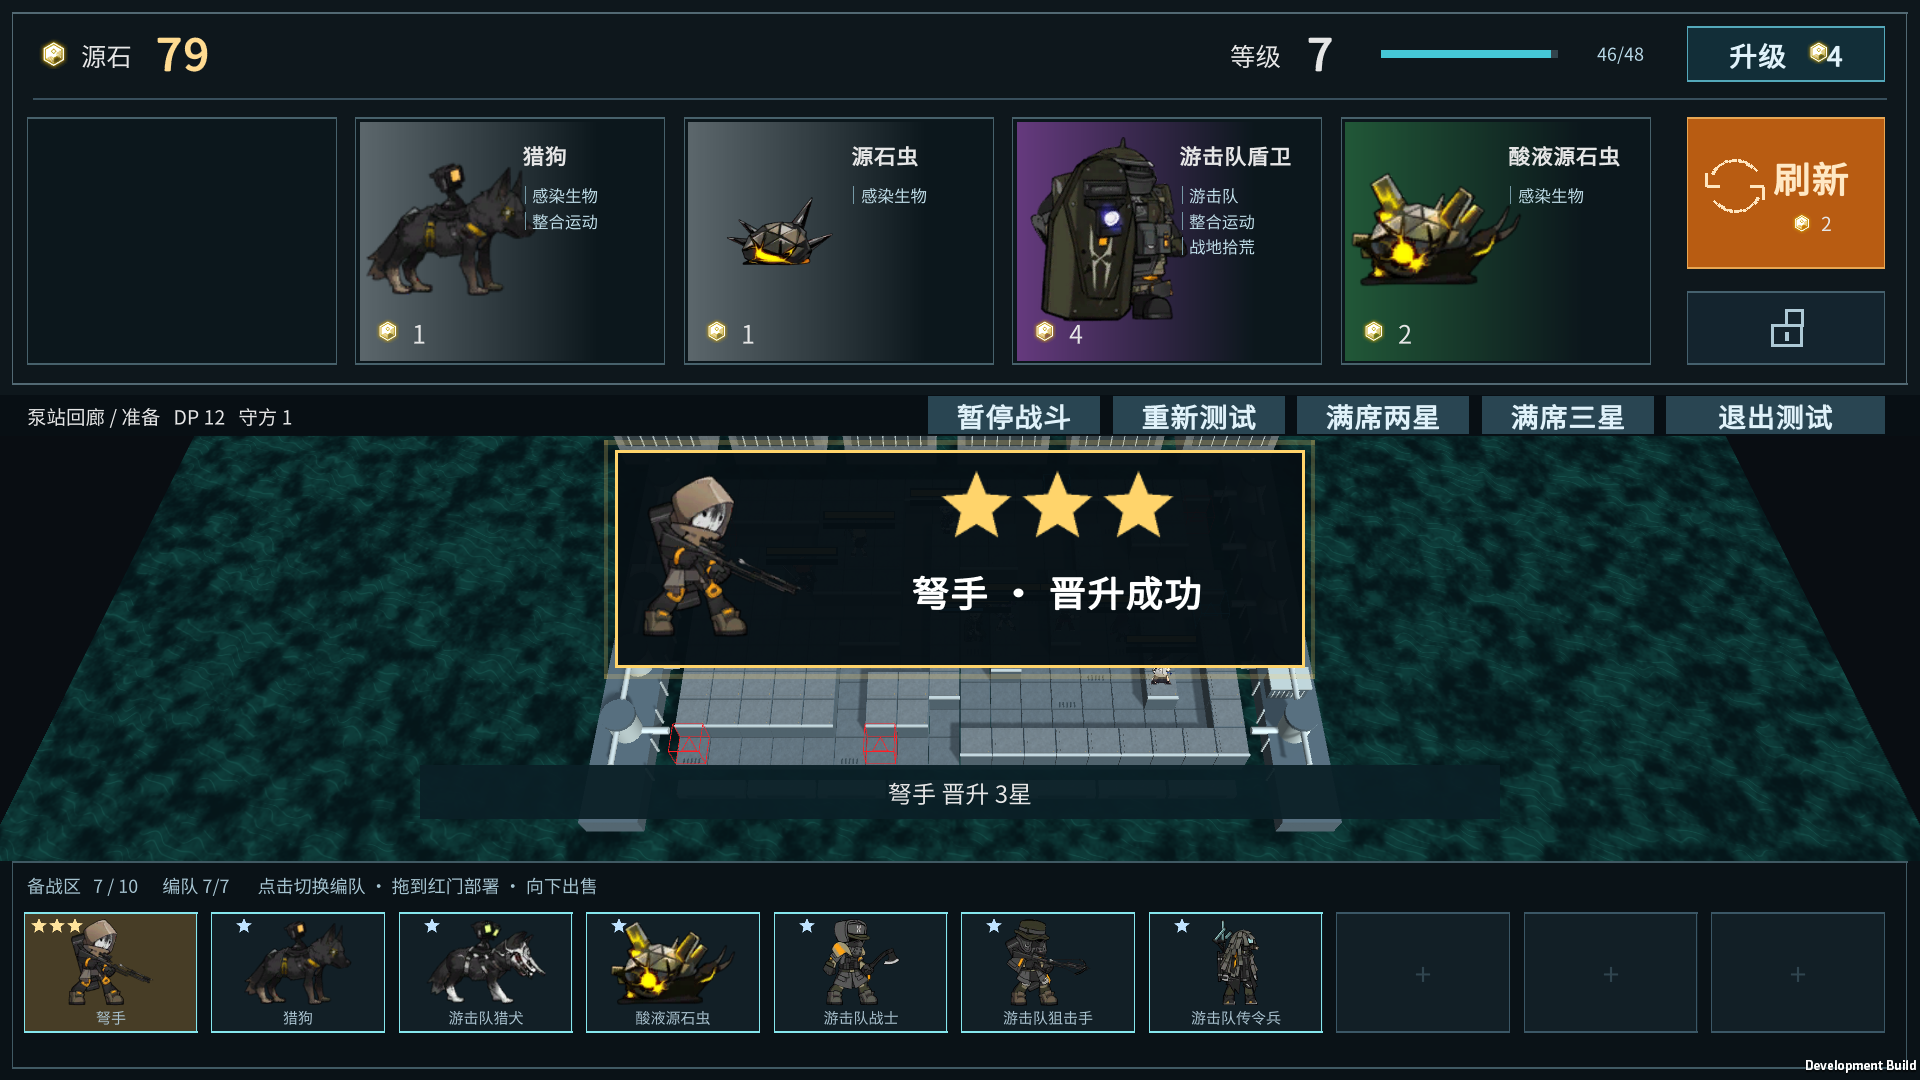
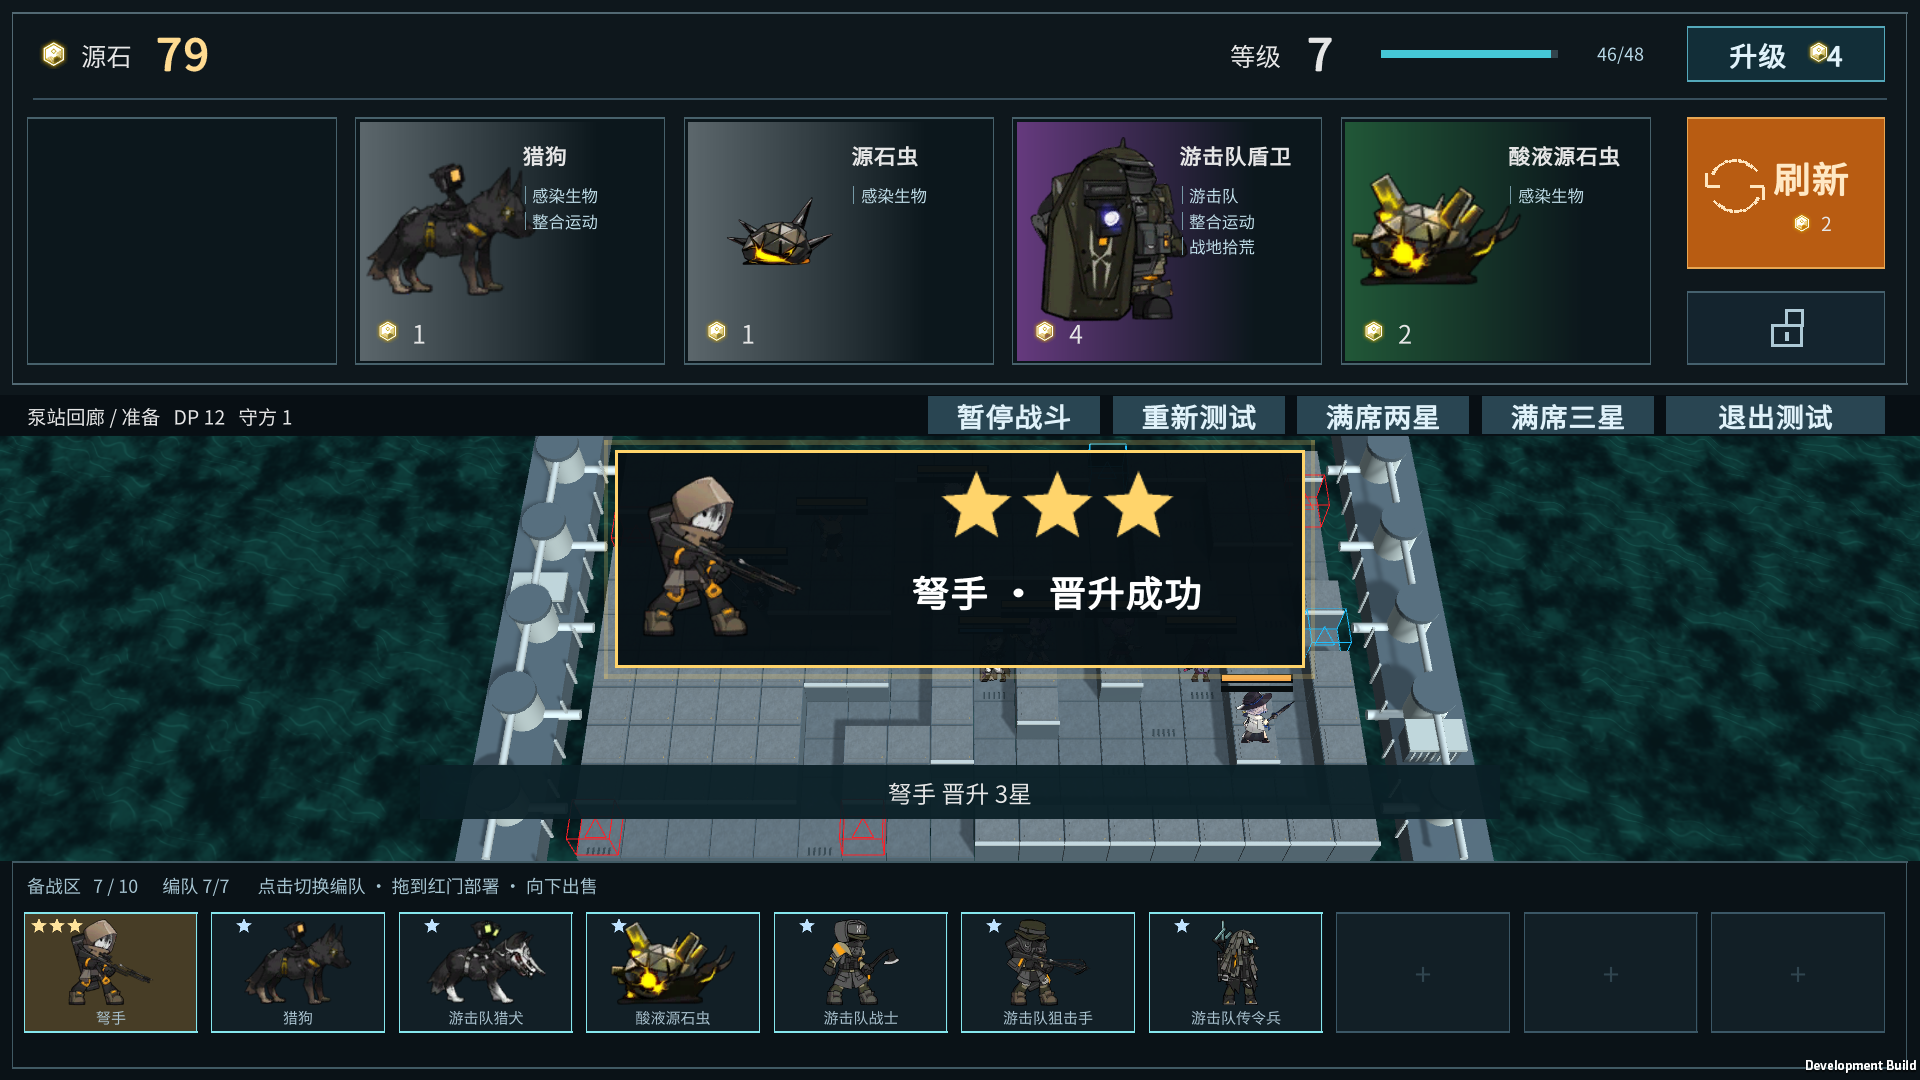
Enlarge shop map 40 percent while keeping all routes visible

Changed region(s): [[0.0, 0.3972, 1.0, 0.7944]]

diff --git a/Assets/_Game/Runtime/ShopMapTrial.cs b/Assets/_Game/Runtime/ShopMapTrial.cs
@@ -15,6 +15,8 @@ namespace YesterdayConvoy
         readonly List<ManualBattleDefinition> shopDeck=new List<ManualBattleDefinition>();
         DefenderTrialDefinition shopMapCopy;
         Rect shopPreviousViewport;
+        float shopPreviousFieldOfView;
+        Vector3 shopMapCameraPosition;
         int shopDrag=-1,shopPending=-1,shopPromotionStar;
         string shopPromotionId,shopMessage;
         Vector2 shopDragStart,shopPointer;
@@ -31,7 +33,7 @@ namespace YesterdayConvoy
 
         public void EnterShopTrial(int preset=0)
         {
-            if(shop==null)shopPreviousViewport=Camera.main.rect;
+            if(shop==null){shopPreviousViewport=Camera.main.rect;shopPreviousFieldOfView=Camera.main.fieldOfView;}
             shopDefinitions.Clear();
             string[] supported={"CARD_M02","CARD_M03","CARD_M05","CARD_M08",OriginalSlugArt.CardId,"CARD_M15","CARD_M16","CARD_M17","CARD_M18","CARD_M19"};
             foreach(var option in monsterTests)
@@ -62,6 +64,7 @@ namespace YesterdayConvoy
                 var pixels=new Color[64];for(int i=0;i<64;i++)pixels[i]=new Color(1,1,1,.72f*Mathf.Clamp01(1-i/50f));shopFade.SetPixels(pixels);shopFade.Apply();
             }
             EnterDefense(shopMapCopy);
+            shopMapCameraPosition=Camera.main.transform.position;
             SyncShopDeck();
             ShopNotice(preset==0?"点击商店招募；备战棋子拖到红门部署，向下拖出售":"满席测试：购买第一张弩手，确认后合成并腾出空位");
         }
@@ -76,6 +79,28 @@ namespace YesterdayConvoy
             defenderTrial.battle=effective[0];defenderTrial.rosterCards=effective.Skip(1).ToArray();definition=effective[0];
             ClearViews();Battle=CreateBattle();selectedRosterIndex=0;Selected=false;CancelInteraction();EnableCombatView();
             Camera.main.rect=new Rect(0,.20f,1,.3972f);
+            FrameShopMap();
+        }
+        IEnumerable<Vector3> ShopMapPlayablePoints()
+        {
+            foreach(var lane in shopMapCopy.lanes)foreach(var point in lane.points){yield return point;yield return point+Vector3.up*.65f;}
+            foreach(var defender in shopMapCopy.defenders){yield return defender.position;yield return defender.position+Camera.main.transform.up*1.65f;}
+        }
+        void FrameShopMap()
+        {
+            var camera=Camera.main;camera.transform.position=shopMapCameraPosition;camera.fieldOfView=shopPreviousFieldOfView;
+            var points=ShopMapPlayablePoints().ToArray();
+            // Recenter the playable board, leaving decorative canals outside the framing budget.
+            for(int pass=0;pass<2;pass++)
+            {
+                var projected=points.Select(camera.WorldToViewportPoint).ToArray();
+                float centerX=(projected.Min(p=>p.x)+projected.Max(p=>p.x))*.5f,centerY=(projected.Min(p=>p.y)+projected.Max(p=>p.y))*.5f;
+                float depth=projected.Average(p=>p.z);
+                camera.transform.position+=camera.ViewportToWorldPoint(new Vector3(centerX,centerY,depth))-camera.ViewportToWorldPoint(new Vector3(.5f,.5f,depth));
+            }
+            float extent=points.Select(camera.WorldToViewportPoint).Max(p=>Mathf.Max(Mathf.Abs(p.x-.5f)/.47f,Mathf.Abs(p.y-.5f)/.45f));
+            float zoom=Mathf.Min(1.4f,1/extent);
+            camera.fieldOfView=2*Mathf.Atan(Mathf.Tan(shopPreviousFieldOfView*.5f*Mathf.Deg2Rad)/zoom)*Mathf.Rad2Deg;
         }
         public ShopTrialModel.Result PurchaseShopCard(int slot,bool confirm=false)
         {
@@ -100,7 +125,7 @@ namespace YesterdayConvoy
         public void CancelShopDrag(){shopDrag=-1;shopMoving=false;shopPending=-1;CancelInteraction();}
         public void LeaveShopTrial()
         {
-            CancelShopDrag();shop=null;shopLineup.Clear();shopDeck.Clear();Camera.main.rect=shopPreviousViewport;
+            CancelShopDrag();shop=null;shopLineup.Clear();shopDeck.Clear();Camera.main.rect=shopPreviousViewport;Camera.main.fieldOfView=shopPreviousFieldOfView;
             ReturnToMonsterTests();if(shopMapCopy!=null){Destroy(shopMapCopy);shopMapCopy=null;}
         }
         bool ShopPointerEvent(EventType type,Vector2 point,int button=0)

diff --git a/Assets/_Game/Tests/PlayMode/ShopMapSceneTests.cs b/Assets/_Game/Tests/PlayMode/ShopMapSceneTests.cs
@@ -25,17 +25,25 @@ namespace YesterdayConvoy.Tests
         {
             yield return SceneManager.LoadSceneAsync("InitialDemo");yield return null;
             var c=Object.FindAnyObjectByType<ManualBattleController>();var original=Resources.Load<DefenderTrialDefinition>("MapTrials/city");var originalCard=original.battle;
-            var viewport=Camera.main.rect;
+            var viewport=Camera.main.rect;float originalFov=Camera.main.fieldOfView;
             foreach(int preset in new[]{1,2})
             {
                 c.EnterShopTrial(preset);yield return null;yield return null;
+                float framedFov=Camera.main.fieldOfView;
+                Assert.That(framedFov,Is.LessThan(originalFov/1.2f),"The shop map must be visibly larger than the old camera framing.");
+                foreach(var lane in original.lanes)foreach(var point in lane.points)
+                {
+                    Vector2 screen=Camera.main.WorldToScreenPoint(point),gui=new Vector2(screen.x*1280/Screen.width,720-screen.y*720/Screen.height);
+                    Assert.That(ManualBattleController.ShopBattlefieldRect.Contains(gui),Is.True,"A route or gate was cropped by the enlarged camera.");
+                }
                 Assert.That(c.Shop.Bench.Count,Is.EqualTo(10));int gold=c.Shop.Gold;
                 Assert.That(c.PurchaseShopCard(1).Success,Is.False);Assert.That(c.Shop.Gold,Is.EqualTo(gold));
                 Assert.That(c.PurchaseShopCard(0).NeedsConfirmation,Is.True);Assert.That(c.Shop.Bench.Count,Is.EqualTo(10));
                 var result=c.PurchaseShopCard(0,true);Assert.That(result.Success,Is.True);Assert.That(result.FinalStar,Is.EqualTo(preset==1?2:3));
                 Assert.That(c.Shop.Bench.Count,Is.EqualTo(preset==1?9:7));Assert.That(c.Shop.Gold,Is.EqualTo(gold-1));c.Shop.Validate();
+                Assert.That(Camera.main.fieldOfView,Is.EqualTo(framedFov).Within(.001f),"Buying or merging must not accumulate camera zoom.");
                 Assert.That(original.battle,Is.SameAs(originalCard));Assert.That(ManualBattleController.ShopOfferRect(0).yMax,Is.LessThan(ManualBattleController.ShopBenchRect(0).y));
-                c.LeaveShopTrial();yield return null;yield return null;Assert.That(Camera.main.rect,Is.EqualTo(viewport));Assert.That(c.TestSelectionOpen,Is.True);
+                c.LeaveShopTrial();yield return null;yield return null;Assert.That(Camera.main.rect,Is.EqualTo(viewport));Assert.That(Camera.main.fieldOfView,Is.EqualTo(originalFov));Assert.That(c.TestSelectionOpen,Is.True);
             }
         }
         [UnityTest]public IEnumerator PurchasedArcherDeploysOnCityRouteAndBattleFreezesTrading()

diff --git a/Assets/_Game/Runtime/ShopMapEvidence.cs b/Assets/_Game/Runtime/ShopMapEvidence.cs
@@ -17,6 +17,8 @@ namespace YesterdayConvoy
             string[] args=Environment.GetCommandLineArgs();int arg=Array.IndexOf(args,"-demoEvidenceDir");string dir=arg>=0&&arg+1<args.Length?args[arg+1]:null;
             yield return null;yield return null;
             bool layout=ShopTrialActive&&TacticalMapId=="city"&&ShopOfferRect(0).yMax<ShopBenchRect(0).y&&Camera.main.rect.height<.6f;
+            float magnification=Mathf.Tan(shopPreviousFieldOfView*.5f*Mathf.Deg2Rad)/Mathf.Tan(Camera.main.fieldOfView*.5f*Mathf.Deg2Rad);
+            bool framing=magnification>1.2f&&ShopMapPlayablePoints().All(p=>ShopBattlefieldRect.Contains(GUIPosition(Camera.main.WorldToScreenPoint(p))));
             yield return InteractionFrame(dir,"shop-map-ready");
             EnterShopTrial(1);yield return null;yield return null;
             int gold=Shop.Gold;var denied=PurchaseShopCard(1);bool fullReject=!denied.Success&&!denied.NeedsConfirmation&&Shop.Gold==gold&&Shop.Bench.Count==10;
@@ -49,8 +51,8 @@ namespace YesterdayConvoy
             bool simulation=Battle.Clock>0&&Battle.Units.Count==1&&Battle.Units[0].Motion.Position!=Battle.Entry;
             Shop.Validate();LeaveShopTrial();yield return null;yield return null;
             bool exit=TestSelectionOpen&&!ShopTrialActive&&!TacticalMapActive&&Camera.main.rect==new Rect(0,0,1,1);
-            bool pass=layout&&fullReject&&fullConfirm&&fullTwo&&fullThree&&cancelSafe&&sale&&level&&locked&&refresh&&gateVisible&&deployed&&frozen&&simulation&&exit;
-            Debug.Log($"SHOP_MAP_CHECK: layout={layout}; fullReject={fullReject}; fullConfirm={fullConfirm}; fullTwo={fullTwo}; fullThree={fullThree}; cancel={cancelSafe}; sale={sale}; level={level}; lock={locked}; refresh={refresh}; gateVisible={gateVisible}; deployed={deployed}; frozen={frozen}; simulation={simulation}; exit={exit}.");
+            bool pass=layout&&framing&&fullReject&&fullConfirm&&fullTwo&&fullThree&&cancelSafe&&sale&&level&&locked&&refresh&&gateVisible&&deployed&&frozen&&simulation&&exit;
+            Debug.Log($"SHOP_MAP_CHECK: layout={layout}; framing={framing}; magnification={magnification:0.00}; fullReject={fullReject}; fullConfirm={fullConfirm}; fullTwo={fullTwo}; fullThree={fullThree}; cancel={cancelSafe}; sale={sale}; level={level}; lock={locked}; refresh={refresh}; gateVisible={gateVisible}; deployed={deployed}; frozen={frozen}; simulation={simulation}; exit={exit}.");
             Time.timeScale=1;Application.Quit(pass?0:1);
         }
     }

diff --git a/docs/SHOP_MAP_TRIAL.md b/docs/SHOP_MAP_TRIAL.md
@@ -4,6 +4,8 @@
 
 保留已确认的卡片、羁绊标签、右侧刷新/锁定和备战席设计，仅调为上方五格商店、下方10格备战席，中间是已有“泵站回廊”地图。可以实际招募、升级、刷新、升星、出售，再把备战角色拖到红门进入战斗。独立场景不改原主菜单和已有地图资源。
 
+镜头补充（同日）：中间地图放大1.4倍，按实际路线和守军头顶居中取景，保留原俯视角度、商店/备战席布局及1920×1080。红蓝门、全部路线与守军都在有效战斗区域内；购买/合成不叠加缩放，退出恢复原镜头。
+
 ## 怎样打开
 
 - 本机 Windows：`D:/游戏开发/YesterdayConvoy-ShopUI/Builds/ShopMap/YesterdayConvoy-Shop.exe`。以1920×1080窗口运行。保留整个ShopMap目录，不能只复制EXE。
@@ -38,9 +40,9 @@
 ## 构建和验证
 
 - 完整 EditMode 276/276、GPU PlayMode 74/74通过，无失败或跳过。其中新增5项交易逻辑、3项场景交互，覆盖满席两星/连锁三星原子确认、不合法购买不扣钱、出售返库只发生一次、经验溢出、锁定、原地图资源不变、弩手/新买猎狗实际使用自身卡配置部署，以及战斗冻结交易。
-- Windows构建通过，最终Unity报告1495921684字节、0错误（不是EXE单文件大小）。首轮受限环境许可证失败；正常Windows环境重试成功，没有改许可证或项目版本。
-- 最后按用户要求保留原设计：右侧刷新/锁定排列、渐变费用背景、羁绊标签和原备战样式，试玩分辨率1920×1080。恢复布局后3项地图交互复测通过（play-layout-final.xml），最终刷新图标缩放修正后重新构建并运行独立Player；完整276/74套件在显示修正前通过。Player全部15项标志True，无捕获异常；再次核对真实地图、确认、满席两/三星、取消、出售、升级、锁店、刷新、红门可见、实际部署、冻结交易、6秒模拟和退出恢复。
-- 本机证据位于 `D:/游戏开发/artifacts/shop-map/`：edit-all.xml、play-all.xml、build-delivery.log、player-delivery.log及player-delivery截图。程序自动验证使用与GUI同一事务和指针处理函数；这不等于第二台电脑人类试玩。
+- Windows构建通过，最终Unity报告1495925555字节、0错误（不是EXE单文件大小）。首轮受限环境许可证失败；正常Windows环境重试成功，没有改许可证或项目版本。
+- 最后按用户要求保留原设计：右侧刷新/锁定排列、渐变费用背景、羁绊标签和原备战样式，试玩分辨率1920×1080。恢复布局后3项地图交互复测通过（play-layout-final.xml），最终刷新图标缩放修正后重新构建并运行独立Player；完整276/74套件在显示修正前通过。地图放大后3/3场景交互通过（play-zoom.xml），最新Player全部16项布尔标志True、magnification=1.40，无捕获异常；再次核对真实地图、确认、满席两/三星、取消、出售、升级、锁店、刷新、红门可见、实际部署、冻结交易、6秒模拟和退出恢复。
+- 本机证据位于 `D:/游戏开发/artifacts/shop-map/`：edit-all.xml、play-all.xml、build-zoom.log、player-zoom.log及player-zoom截图。程序自动验证使用与GUI同一事务和指针处理函数；这不等于第二台电脑人类试玩。
 - Node 7/7及Chrome离线布局/满席/取消/晋升/底部出售通过；无页面脚本错误。
 
 未测第二台电脑、全新克隆重新构建、长时压力和人类手感平衡。不能把本机通过登记为接收端已验收。接收者需核对PR分支，打开上述独立场景或取得完整构建目录，按步骤1～7实际操作。

diff --git a/docs/STATUS.md b/docs/STATUS.md
@@ -2,6 +2,8 @@
 
 ## 2026-10-30：商店上下布局与泵站回廊试玩
 
+同日镜头补充：中间地图放大1.4倍并按有效路线/守军居中，商店、备战席、1920×1080和地图格局保持。3/3地图交互复测通过，验证所有路线/红门可见、购买不累积缩放、退出恢复视口和FOV；最新Windows1495925555 bytes、0错误，Player16项布尔标志全True、magnification=1.40，实际截图已复核。证据：play-zoom.xml、build-zoom.log、player-zoom.log；下文首版完整276/74结果不记为本次重跑。
+
 商店移至屏幕上方、10格备战席在底部；中央大星标晋升，连锁三星只播最终一次。新增独立 `Assets/_Game/ShopTrials/ShopMap.unity`，招募后可把角色拖到泵站回廊红门部署；准备时支持升级、刷新、锁店和向下出售。满席可确认两星/连锁三星，无法合成不扣钱。入口、操作和边界见[地图试玩说明](SHOP_MAP_TRIAL.md)。
 
 完整276 EditMode、74 GPU PlayMode通过；保留原设计并改1920×1080后，3项地图交互复测通过；Windows重建1495921684 bytes、0错误，独立Player15项标志全部True。浏览器Node7/7、Chrome离线上下布局/满席/出售通过。本机EXE：`D:/游戏开发/YesterdayConvoy-ShopUI/Builds/ShopMap/YesterdayConvoy-Shop.exe`，保留整个目录。当前是10种基础角色的独立测试池，星级未改变战斗属性；原复杂角色保护不放宽，非正式完整商店/羁绊章节。未修改原主场景、地图asset、Prefab、Packages或ProjectSettings。

diff --git a/docs/QA.md b/docs/QA.md
@@ -2,6 +2,8 @@
 
 ## 2026-10-30：商店地图与满备战席合成
 
+同日镜头补充：中间地图放大1.4倍并按有效路线/守军居中，商店、备战席、1920×1080和地图格局保持。3/3地图交互复测通过，验证所有路线/红门可见、购买不累积缩放、退出恢复视口和FOV；最新Windows1495925555 bytes、0错误，Player16项布尔标志全True、magnification=1.40，实际截图已复核。证据：play-zoom.xml、build-zoom.log、player-zoom.log；下文首版完整276/74结果不记为本次重跑。
+
 [范围、构建和限制](SHOP_MAP_TRIAL.md)。本机证据目录 `D:/游戏开发/artifacts/shop-map/`，测试与构建输出不入Git。
 
 | 实际验证 | 结果 |
